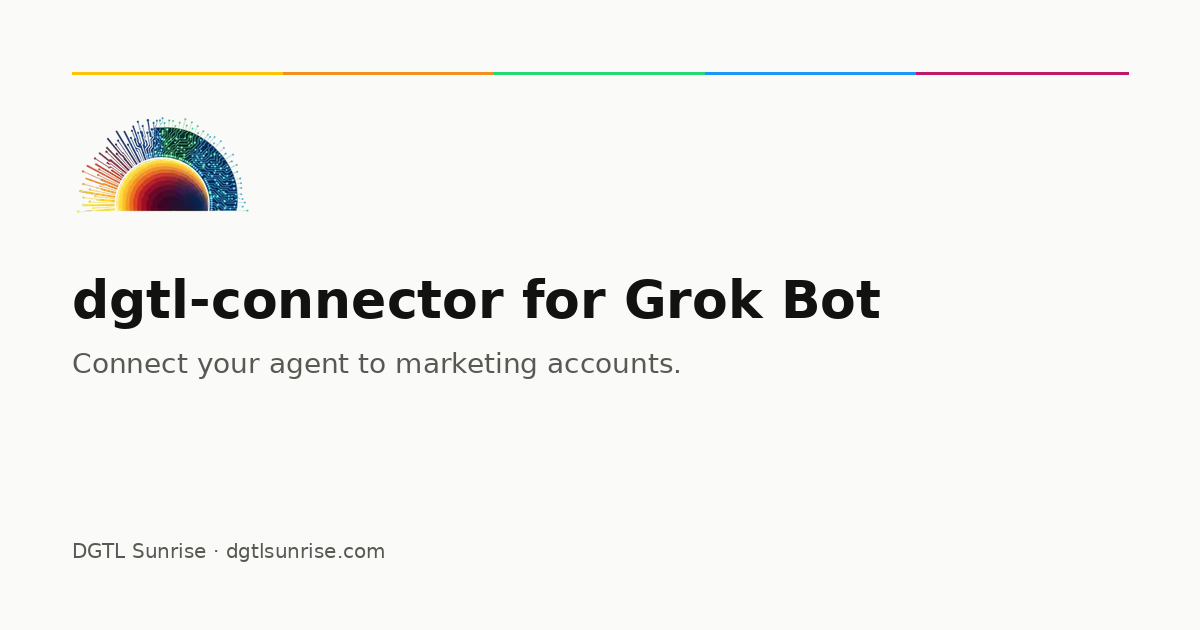
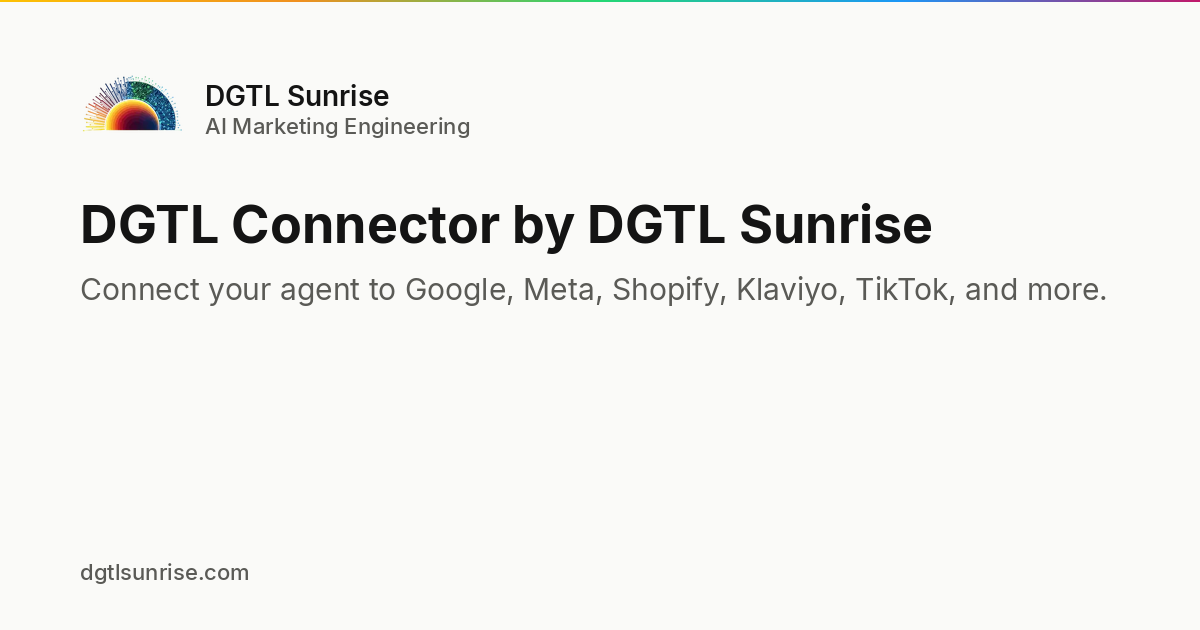
Refresh og-share.png for article brand lock (#29)
## Summary
- Rebuild `og-share.png` (1200×630) to match article chrome: logo, tagline **AI Marketing Engineering**, title **DGTL Connector by DGTL Sunrise**, platform lede
- Align `og:image:alt` across pages
- Add `scripts/render-og-share.py` for future regenerations

## Test plan
- [x] Visual check of `og-share.png`
- [ ] Spot-check https://www.dgtlsunrise.com/og-share.png after deploy (cache may lag)

diff --git a/google-ads.html b/google-ads.html
@@ -14,7 +14,7 @@
   <meta property="og:image" content="https://www.dgtlsunrise.com/og-share.png" />
   <meta property="og:image:width" content="1200" />
   <meta property="og:image:height" content="630" />
-  <meta property="og:image:alt" content="dgtl-connector for Grok Bot. Connect your agent to marketing accounts." />
+  <meta property="og:image:alt" content="DGTL Connector by DGTL Sunrise. Connect your agent to Google, Meta, Shopify, Klaviyo, TikTok, and more." />
   <meta name="twitter:card" content="summary_large_image" />
   <meta name="twitter:title" content="Google Ads · DGTL Sunrise" />
   <meta name="twitter:description" content="Google Ads reporting plus confirm-gated manage and create for DGTL Connector Pro. Sunrise Consulting LLC product page for Google Ads API review." />

diff --git a/contact.html b/contact.html
@@ -14,7 +14,7 @@
   <meta property="og:image" content="https://www.dgtlsunrise.com/og-share.png" />
   <meta property="og:image:width" content="1200" />
   <meta property="og:image:height" content="630" />
-  <meta property="og:image:alt" content="dgtl-connector for Grok Bot. Connect your agent to marketing accounts." />
+  <meta property="og:image:alt" content="DGTL Connector by DGTL Sunrise. Connect your agent to Google, Meta, Shopify, Klaviyo, TikTok, and more." />
   <meta name="twitter:card" content="summary_large_image" />
   <meta name="twitter:title" content="Contact · DGTL Sunrise" />
   <meta name="twitter:description" content="Email support@dgtlsunrise.com for product help or contact@dgtlsunrise.com for engagements. Sunrise Consulting LLC, Coeur d’Alene, Idaho." />

diff --git a/developers.html b/developers.html
@@ -14,7 +14,7 @@
   <meta property="og:image" content="https://www.dgtlsunrise.com/og-share.png" />
   <meta property="og:image:width" content="1200" />
   <meta property="og:image:height" content="630" />
-  <meta property="og:image:alt" content="dgtl-connector for Grok Bot. Connect your agent to marketing accounts." />
+  <meta property="og:image:alt" content="DGTL Connector by DGTL Sunrise. Connect your agent to Google, Meta, Shopify, Klaviyo, TikTok, and more." />
   <meta name="twitter:card" content="summary_large_image" />
   <meta name="twitter:title" content="Developers · DGTL Connector by DGTL Sunrise" />
   <meta name="twitter:description" content="Developer resources for DGTL Connector: install docs, OpenAPI, MCP manifests, and machine-readable site files." />

diff --git a/privacy.html b/privacy.html
@@ -14,7 +14,7 @@
   <meta property="og:image" content="https://www.dgtlsunrise.com/og-share.png" />
   <meta property="og:image:width" content="1200" />
   <meta property="og:image:height" content="630" />
-  <meta property="og:image:alt" content="dgtl-connector for Grok Bot. Connect your agent to marketing accounts." />
+  <meta property="og:image:alt" content="DGTL Connector by DGTL Sunrise. Connect your agent to Google, Meta, Shopify, Klaviyo, TikTok, and more." />
   <meta name="twitter:card" content="summary_large_image" />
   <meta name="twitter:title" content="Privacy Policy · DGTL Sunrise" />
   <meta name="twitter:description" content="Privacy policy for dgtlsunrise.com, the Grok Bot plugin, and related consulting work by Sunrise Consulting LLC." />

diff --git a/index.html b/index.html
@@ -18,7 +18,7 @@
   <meta property="og:image" content="https://www.dgtlsunrise.com/og-share.png" />
   <meta property="og:image:width" content="1200" />
   <meta property="og:image:height" content="630" />
-  <meta property="og:image:alt" content="DGTL Connector by DGTL Sunrise. Connect your agent to marketing accounts." />
+  <meta property="og:image:alt" content="DGTL Connector by DGTL Sunrise. Connect your agent to Google, Meta, Shopify, Klaviyo, TikTok, and more." />
   <meta name="twitter:card" content="summary_large_image" />
   <meta name="twitter:title" content="DGTL Connector by DGTL Sunrise" />
   <meta name="twitter:description" content="DGTL Connector by DGTL Sunrise. Connect your agent to Google, Meta, Shopify, Klaviyo, TikTok, and more." />

diff --git a/about.html b/about.html
@@ -14,7 +14,7 @@
   <meta property="og:image" content="https://www.dgtlsunrise.com/og-share.png" />
   <meta property="og:image:width" content="1200" />
   <meta property="og:image:height" content="630" />
-  <meta property="og:image:alt" content="dgtl-connector for Grok Bot. Connect your agent to marketing accounts." />
+  <meta property="og:image:alt" content="DGTL Connector by DGTL Sunrise. Connect your agent to Google, Meta, Shopify, Klaviyo, TikTok, and more." />
   <meta name="twitter:card" content="summary_large_image" />
   <meta name="twitter:title" content="About · DGTL Sunrise" />
   <meta name="twitter:description" content="DGTL Sunrise is an AI-first marketing engineer agency. Sunrise Consulting LLC ships dgtl-connector for Grok Bot." />

diff --git a/engagements.html b/engagements.html
@@ -14,7 +14,7 @@
   <meta property="og:image" content="https://www.dgtlsunrise.com/og-share.png" />
   <meta property="og:image:width" content="1200" />
   <meta property="og:image:height" content="630" />
-  <meta property="og:image:alt" content="dgtl-connector for Grok Bot. Connect your agent to marketing accounts." />
+  <meta property="og:image:alt" content="DGTL Connector by DGTL Sunrise. Connect your agent to Google, Meta, Shopify, Klaviyo, TikTok, and more." />
   <meta name="twitter:card" content="summary_large_image" />
   <meta name="twitter:title" content="Engagements · DGTL Sunrise" />
   <meta name="twitter:description" content="Write DGTL Sunrise if you want a running growth system installed around the connector." />

diff --git a/terms.html b/terms.html
@@ -14,7 +14,7 @@
   <meta property="og:image" content="https://www.dgtlsunrise.com/og-share.png" />
   <meta property="og:image:width" content="1200" />
   <meta property="og:image:height" content="630" />
-  <meta property="og:image:alt" content="dgtl-connector for Grok Bot. Connect your agent to marketing accounts." />
+  <meta property="og:image:alt" content="DGTL Connector by DGTL Sunrise. Connect your agent to Google, Meta, Shopify, Klaviyo, TikTok, and more." />
   <meta name="twitter:card" content="summary_large_image" />
   <meta name="twitter:title" content="Terms of Use · DGTL Sunrise" />
   <meta name="twitter:description" content="Terms of use for dgtlsunrise.com and the Grok Bot plugin from Sunrise Consulting LLC." />

diff --git a/404.html b/404.html
@@ -14,7 +14,7 @@
   <meta property="og:image" content="https://www.dgtlsunrise.com/og-share.png" />
   <meta property="og:image:width" content="1200" />
   <meta property="og:image:height" content="630" />
-  <meta property="og:image:alt" content="dgtl-connector for Grok Bot. Connect your agent to marketing accounts." />
+  <meta property="og:image:alt" content="DGTL Connector by DGTL Sunrise. Connect your agent to Google, Meta, Shopify, Klaviyo, TikTok, and more." />
   <meta name="twitter:card" content="summary_large_image" />
   <meta name="twitter:title" content="Not found · DGTL Sunrise" />
   <meta name="twitter:description" content="That path is not on dgtlsunrise.com." />

diff --git a/scripts/render-og-share.py b/scripts/render-og-share.py
@@ -1,0 +1,92 @@
+#!/usr/bin/env python3
+"""Render og-share.png (1200x630) to match the article site chrome."""
+from pathlib import Path
+from PIL import Image, ImageDraw, ImageFont
+
+ROOT = Path(__file__).resolve().parents[1]
+W, H = 1200, 630
+BG = (250, 250, 248)
+TEXT = (20, 20, 20)
+MUTED = (90, 90, 86)
+STOPS = [
+    (0.0, (253, 194, 4)),
+    (0.25, (240, 144, 32)),
+    (0.5, (37, 216, 116)),
+    (0.75, (28, 151, 247)),
+    (1.0, (194, 24, 106)),
+]
+
+def lerp(a, b, t):
+    return tuple(int(a[i] + (b[i] - a[i]) * t) for i in range(3))
+
+def grad(t):
+    for i in range(len(STOPS) - 1):
+        t0, c0 = STOPS[i]
+        t1, c1 = STOPS[i + 1]
+        if t0 <= t <= t1:
+            u = 0 if t1 == t0 else (t - t0) / (t1 - t0)
+            return lerp(c0, c1, u)
+    return STOPS[-1][1]
+
+def main():
+    # Prefer Inter from a local cache; fall back to DejaVu.
+    candidates = [
+        Path("/tmp/og-fonts/extras/ttf"),
+        Path.home() / ".local/share/fonts",
+        Path("/usr/share/fonts/truetype/dejavu"),
+    ]
+    def font(name, size, fallback="DejaVuSans.ttf"):
+        for base in candidates:
+            p = base / name
+            if p.exists():
+                return ImageFont.truetype(str(p), size)
+        for base in candidates:
+            p = base / fallback
+            if p.exists():
+                return ImageFont.truetype(str(p), size)
+        return ImageFont.load_default()
+
+    img = Image.new("RGB", (W, H), BG)
+    draw = ImageDraw.Draw(img)
+    for x in range(W):
+        draw.line([(x, 0), (x, 1)], fill=grad(x / (W - 1)))
+
+    med = font("Inter-Medium.ttf", 22)
+    sb = font("Inter-SemiBold.ttf", 28)
+    title = font("Inter-Bold.ttf", 52)
+    sub = font("Inter-Regular.ttf", 30)
+    foot = font("Inter-Medium.ttf", 22)
+
+    logo = Image.open(ROOT / "logo.webp").convert("RGBA")
+    lh = 64
+    lw = int(logo.width * (lh / logo.height))
+    logo = logo.resize((lw, lh), Image.Resampling.LANCZOS)
+    pad_x, pad_y = 80, 72
+    img.paste(logo, (pad_x, pad_y), logo)
+    bx, by = pad_x + lw + 20, pad_y + 6
+    draw.text((bx, by), "DGTL Sunrise", font=sb, fill=TEXT)
+    draw.text((bx, by + 34), "AI Marketing Engineering", font=med, fill=MUTED)
+
+    ty = pad_y + lh + 56
+    draw.text((pad_x, ty), "DGTL Connector by DGTL Sunrise", font=title, fill=TEXT)
+    subtitle = "Connect your agent to Google, Meta, Shopify, Klaviyo, TikTok, and more."
+    words, lines, cur = subtitle.split(), [], ""
+    for w in words:
+        trial = (cur + " " + w).strip()
+        if draw.textlength(trial, font=sub) <= W - pad_x * 2:
+            cur = trial
+        else:
+            lines.append(cur)
+            cur = w
+    if cur:
+        lines.append(cur)
+    sy = ty + 78
+    for i, line in enumerate(lines):
+        draw.text((pad_x, sy + i * 40), line, font=sub, fill=MUTED)
+    draw.text((pad_x, H - 72), "dgtlsunrise.com", font=foot, fill=MUTED)
+    out = ROOT / "og-share.png"
+    img.save(out, "PNG", optimize=True)
+    print(f"wrote {out} ({out.stat().st_size} bytes)")
+
+if __name__ == "__main__":
+    main()
